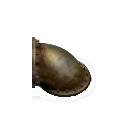
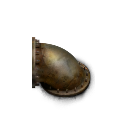
graphics: Replaced custom pipe assets with assets from reskins-library.

Changed region(s): [[0.25, 0.4375, 0.75, 0.8125]]

diff --git a/README.md b/README.md
@@ -1,1 +1,3 @@
 Supplies assets for "Muluna, moon of Nauvis."
+
+Pipe assets are taken from reskins-library.
